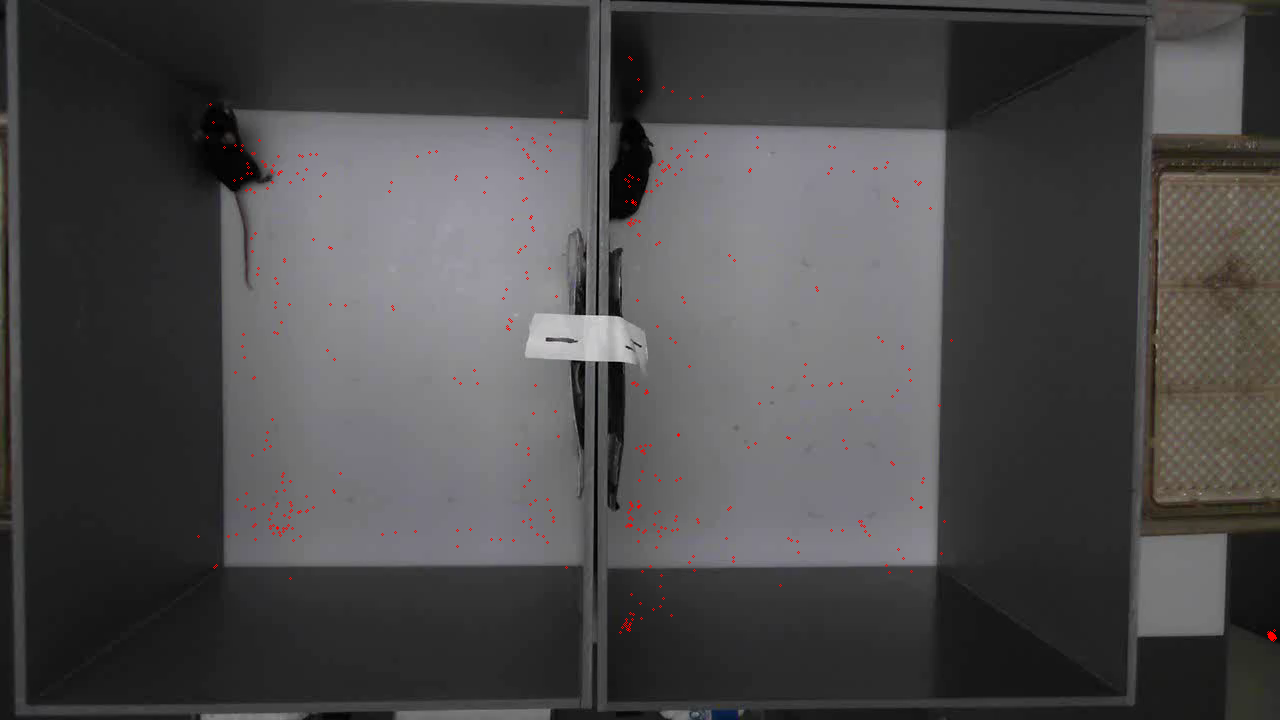
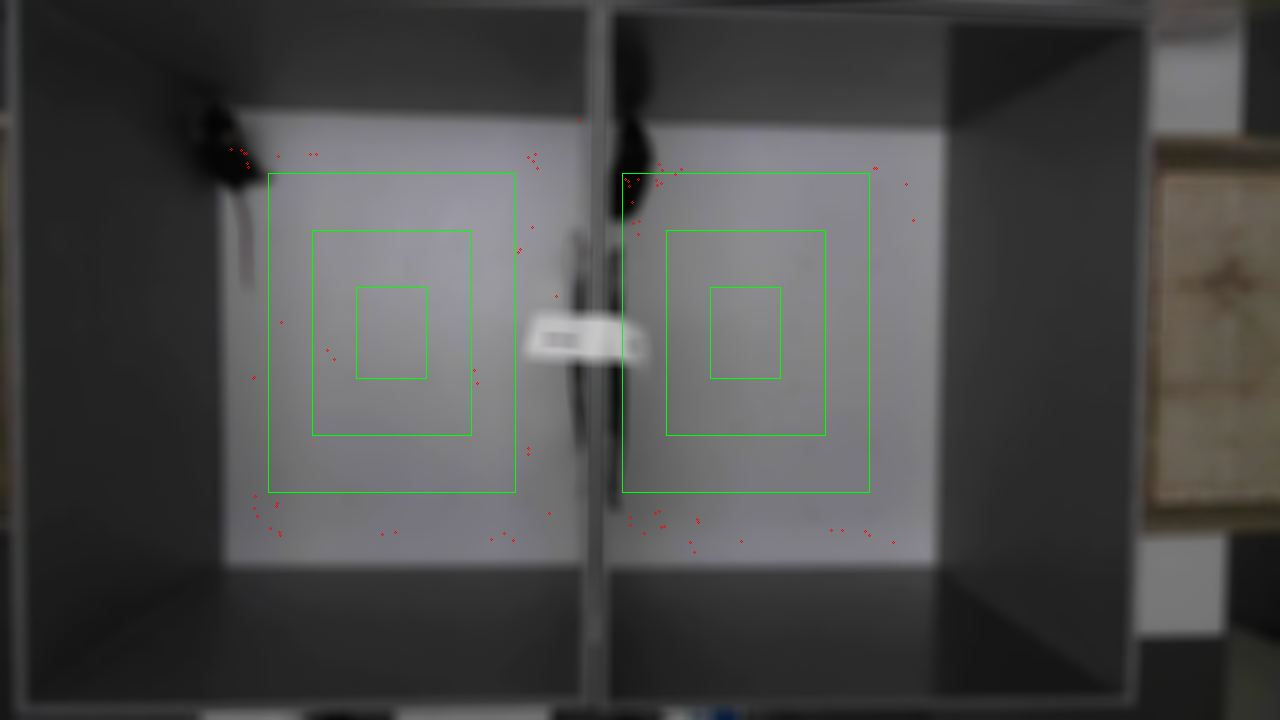
update

diff --git a/test2.py b/test2.py
@@ -52,7 +52,7 @@ print "Frame per sec"
 print frame_per_sec
 
 
-def analyze(frame):
+def analyze(frame,frame_name,frame2):
     # smooth it
     #cv2.imshow('before',frame)
     frame3 = cv2.blur(frame,(17,17))
@@ -81,7 +81,7 @@ def analyze(frame):
     draw_rect(frame,height,width/2,0.7)
     draw_rect(frame,height,width/2,0.45)
     draw_rect(frame,height,width/2,0.2)
-    cv2.imshow("gray_test3.png",frame)
+    cv2.imshow(frame_name,frame)
 
     max_area = 0
     contours2 = contours
@@ -98,11 +98,11 @@ def analyze(frame):
     #        best_cnt = cnt
 
     cv2.drawContours(frame,contours2,-1,cv.CV_RGB(255,255,0),1)
-    start = tuple([0,half_height])
-    end = tuple([width,half_height])
+    start = tuple([0,height/2])
+    end = tuple([width,height/2])
     cv2.line(frame,start,end,cv.CV_RGB(255,0,255))
-    start = tuple([half_width,0])
-    end = tuple([half_width,height])
+    start = tuple([width,0])
+    end = tuple([width/2,height])
     cv2.line(frame,start,end,cv.CV_RGB(255,0,255))
     cv2.line(frame,start,end,cv.CV_RGB(255,0,255))
 
@@ -131,97 +131,97 @@ def analyze(frame):
         cv2.circle(frame2,mid_point, 1, cv.CV_RGB(255,0,0))
         cv2.circle(frame,mid_point, 1, cv.CV_RGB(255,0,0))
 
-    left_upper_bool = left_lower_bool = right_upper_bool = right_lower_bool = 1
-    for mp in mid_points:
-
-        if comp_tuple(mp,upper_left_point1,upper_left_point2) and left_upper_bool == 1:
-            #var1 = 4 if var1 is None else var1
-            left_upper_bool = 0
-            last_upper_left = last_upper_left or mp
-            distance = dist(last_upper_left,mp)
-            if distance > dist_threshold:
-                upper_left_i = 0 or upper_left_i
-                upper_left_i = upper_left_i + 1
-                if upper_left_i == bout_threshold:
-                    upper_left_num_bout = upper_left_num_bout + 1
-                    upper_left_lap_bout.append(0)
-                if upper_left_i >= bout_threshold:
-                    cv2.circle(frame,mp, 5, cv.CV_RGB(255,0,0))
-                    upper_left_frame_bout = upper_left_frame_bout + 1
-                    upper_left_distance_bout = upper_left_distance_bout + distance
-                    upper_left_lap_bout[-1] = upper_left_lap_bout[-1] +1
-            else:
-                distance = 0
-                upper_left_i = 0
-
-            if comp_tuple(mp,upper_left_25_point1,upper_left_25_point2):
-                dist_upper_left_25 = dist_upper_left_25 + distance
-                upper_left_25 = upper_left_25 + 1
-            elif comp_tuple(mp,upper_left_50_point1,upper_left_50_point2):
-                upper_left_50 = upper_left_50 + 1
-                dist_upper_left_50 = dist_upper_left_50 + distance
-            elif comp_tuple(mp,upper_left_75_point1,upper_left_75_point2):
-                upper_left_75 = upper_left_75 + 1
-                dist_upper_left_75 = dist_upper_left_75 + distance
-            else:
-                upper_left = upper_left + 1
-                dist_upper_left = dist_upper_left + distance
-            last_upper_left = mp
-            upper_left_last_known_point = mp
-
-        if comp_tuple(mp,upper_right_point1,upper_right_point2) and right_upper_bool ==1 :
-            right_upper_bool = 0
-            last_upper_right = last_upper_right or mp
-            distance = dist(last_upper_right,mp)
-            if distance > dist_threshold:
-                upper_right_i = 0 or upper_right_i
-                upper_right_i = upper_right_i + 1
-                if upper_right_i == bout_threshold:
-                    upper_right_num_bout = upper_right_num_bout + 1
-                    upper_right_lap_bout.append(0)
-                if upper_right_i >= bout_threshold:
-                    cv2.circle(frame,mp, 5, cv.CV_RGB(255,0,0))
-                    upper_right_frame_bout = upper_right_frame_bout + 1
-                    upper_right_distance_bout = upper_right_distance_bout + distance
-                    upper_right_lap_bout[-1] = upper_right_lap_bout[-1] +1
-            else:
-                distance = 0
-                upper_right_i = 0
-            if comp_tuple(mp,upper_right_25_point1,upper_right_25_point2):
-                dist_upper_right_25 = dist_upper_right_25 + distance
-                upper_right_25 = upper_right_25 + 1
-            elif comp_tuple(mp,upper_right_50_point1,upper_right_50_point2):
-                upper_right_50 = upper_right_50 + 1
-                dist_upper_right_50 = dist_upper_right_50 + distance
-            elif comp_tuple(mp,upper_right_75_point1,upper_right_75_point2):
-                upper_right_75 = upper_right_75 + 1
-                dist_upper_right_75 = dist_upper_right_75 + distance
-            else:
-                upper_right = upper_right + 1
-                dist_upper_right = dist_upper_right + distance
-            last_upper_right = mp
-            upper_right_last_known_point = mp
-
-    if left_upper_bool == 1:
-        mp = upper_left_last_known_point
-        if comp_tuple(mp,upper_left_25_point1,upper_left_25_point2):
-            upper_left_25 = upper_left_25 + 1
-        elif comp_tuple(mp,upper_left_50_point1,upper_left_50_point2):
-            upper_left_50 = upper_left_50 + 1
-        elif comp_tuple(mp,upper_left_75_point1,upper_left_75_point2):
-            upper_left_75 = upper_left_75 + 1
-        else:
-            upper_left = upper_left + 1
-    if right_upper_bool == 1:
-        mp = upper_right_last_known_point
-        if comp_tuple(mp,upper_right_25_point1,upper_right_25_point2):
-            upper_right_25 = upper_right_25 + 1
-        elif comp_tuple(mp,upper_right_50_point1,upper_right_50_point2):
-            upper_right_50 = upper_right_50 + 1
-        elif comp_tuple(mp,upper_right_75_point1,upper_right_75_point2):
-            upper_right_75 = upper_right_75 + 1
-        else:
-            upper_right = upper_right + 1
+    #left_upper_bool = left_lower_bool = right_upper_bool = right_lower_bool = 1
+    #for mp in mid_points:
+#
+    #    if comp_tuple(mp,upper_left_point1,upper_left_point2) and left_upper_bool == 1:
+    #        #var1 = 4 if var1 is None else var1
+    #        left_upper_bool = 0
+    #        last_upper_left = last_upper_left or mp
+    #        distance = dist(last_upper_left,mp)
+    #        if distance > dist_threshold:
+    #            upper_left_i = 0 or upper_left_i
+    #            upper_left_i = upper_left_i + 1
+    #            if upper_left_i == bout_threshold:
+    #                upper_left_num_bout = upper_left_num_bout + 1
+    #                upper_left_lap_bout.append(0)
+    #            if upper_left_i >= bout_threshold:
+    #                cv2.circle(frame,mp, 5, cv.CV_RGB(255,0,0))
+    #                upper_left_frame_bout = upper_left_frame_bout + 1
+    #                upper_left_distance_bout = upper_left_distance_bout + distance
+    #                upper_left_lap_bout[-1] = upper_left_lap_bout[-1] +1
+    #        else:
+    #            distance = 0
+    #            upper_left_i = 0
+#
+    #        if comp_tuple(mp,upper_left_25_point1,upper_left_25_point2):
+    #            dist_upper_left_25 = dist_upper_left_25 + distance
+    #            upper_left_25 = upper_left_25 + 1
+    #        elif comp_tuple(mp,upper_left_50_point1,upper_left_50_point2):
+    #            upper_left_50 = upper_left_50 + 1
+    #            dist_upper_left_50 = dist_upper_left_50 + distance
+    #        elif comp_tuple(mp,upper_left_75_point1,upper_left_75_point2):
+    #            upper_left_75 = upper_left_75 + 1
+    #            dist_upper_left_75 = dist_upper_left_75 + distance
+    #        else:
+    #            upper_left = upper_left + 1
+    #            dist_upper_left = dist_upper_left + distance
+    #        last_upper_left = mp
+    #        upper_left_last_known_point = mp
+#
+    #    if comp_tuple(mp,upper_right_point1,upper_right_point2) and right_upper_bool ==1 :
+    #        right_upper_bool = 0
+    #        last_upper_right = last_upper_right or mp
+    #        distance = dist(last_upper_right,mp)
+    #        if distance > dist_threshold:
+    #            upper_right_i = 0 or upper_right_i
+    #            upper_right_i = upper_right_i + 1
+    #            if upper_right_i == bout_threshold:
+    #                upper_right_num_bout = upper_right_num_bout + 1
+    #                upper_right_lap_bout.append(0)
+    #            if upper_right_i >= bout_threshold:
+    #                cv2.circle(frame,mp, 5, cv.CV_RGB(255,0,0))
+    #                upper_right_frame_bout = upper_right_frame_bout + 1
+    #                upper_right_distance_bout = upper_right_distance_bout + distance
+    #                upper_right_lap_bout[-1] = upper_right_lap_bout[-1] +1
+    #        else:
+    #            distance = 0
+    #            upper_right_i = 0
+    #        if comp_tuple(mp,upper_right_25_point1,upper_right_25_point2):
+    #            dist_upper_right_25 = dist_upper_right_25 + distance
+    #            upper_right_25 = upper_right_25 + 1
+    #        elif comp_tuple(mp,upper_right_50_point1,upper_right_50_point2):
+    #            upper_right_50 = upper_right_50 + 1
+    #            dist_upper_right_50 = dist_upper_right_50 + distance
+    #        elif comp_tuple(mp,upper_right_75_point1,upper_right_75_point2):
+    #            upper_right_75 = upper_right_75 + 1
+    #            dist_upper_right_75 = dist_upper_right_75 + distance
+    #        else:
+    #            upper_right = upper_right + 1
+    #            dist_upper_right = dist_upper_right + distance
+    #        last_upper_right = mp
+    #        upper_right_last_known_point = mp
+#
+    #if left_upper_bool == 1:
+    #    mp = upper_left_last_known_point
+    #    if comp_tuple(mp,upper_left_25_point1,upper_left_25_point2):
+    #        upper_left_25 = upper_left_25 + 1
+    #    elif comp_tuple(mp,upper_left_50_point1,upper_left_50_point2):
+    #        upper_left_50 = upper_left_50 + 1
+    #    elif comp_tuple(mp,upper_left_75_point1,upper_left_75_point2):
+    #        upper_left_75 = upper_left_75 + 1
+    #    else:
+    #        upper_left = upper_left + 1
+    #if right_upper_bool == 1:
+    #    mp = upper_right_last_known_point
+    #    if comp_tuple(mp,upper_right_25_point1,upper_right_25_point2):
+    #        upper_right_25 = upper_right_25 + 1
+    #    elif comp_tuple(mp,upper_right_50_point1,upper_right_50_point2):
+    #        upper_right_50 = upper_right_50 + 1
+    #    elif comp_tuple(mp,upper_right_75_point1,upper_right_75_point2):
+    #        upper_right_75 = upper_right_75 + 1
+    #    else:
+    #        upper_right = upper_right + 1
     #print contours
     # finding centroids of best_cnt and draw a circle there
     #M = cv2.moments(best_cnt)
@@ -391,11 +391,11 @@ while(frame_number < total_number_of_frames):
       sys.stderr.flush()
     #capture = cv.CaptureFromFile("/Users/hayer/Desktop/Anand/openfields/071211_Batch1-openfield.m4v")
 
-    cv_rect_obj1 = frame[0:height,0:width/2]
-    cv_rect_obj2 = frame[0:height,width/2:width]
+    left_side = frame[0:height,0:width/2]
+    right_side = frame[0:height,width/2:width]
 
-    analyze(cv_rect_obj1)
-    analyze(cv_rect_obj2)
+    analyze(left_side,"left",cv_rect_obj1)
+    analyze(right_side,"right",cv_rect_obj2)
 
     if cv2.waitKey(33) == 27:
         break
